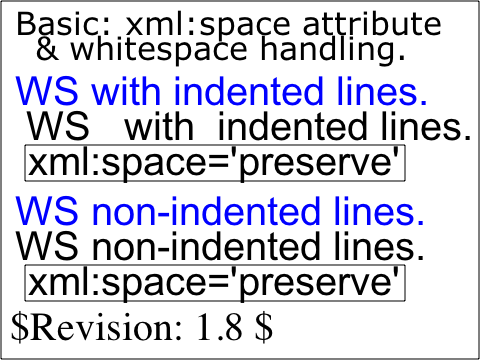
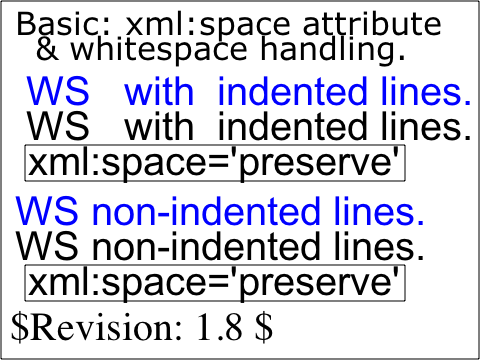
Reviewed by Sam.
Add support for xml:space="preserve" for SVG text.
It can be modeled by using white-space="pre" and replace \n by spaces.

Handle xml:space="default" correctly.
Always remove tabs from SVG text - as demanded by spec.

Added test: svg/custom/text-whitespace-handling.svg

git-svn-id: https://svn.webkit.org/repository/webkit/trunk@19390 268f45cc-cd09-0410-ab3c-d52691b4dbfc

Changed region(s): [[0.0312, 0.2139, 1.0, 0.3056]]

diff --git a/WebCore/css/svg.css b/WebCore/css/svg.css
@@ -51,5 +51,5 @@ text, foreignObject {
 }
 
 text, tspan {
-   white-space: nowrap !important
+   white-space: nowrap
 }

diff --git a/WebCore/rendering/bidi.cpp b/WebCore/rendering/bidi.cpp
@@ -1912,6 +1912,16 @@ static inline bool shouldCollapseWhiteSpace(const RenderStyle* style)
     return style->collapseWhiteSpace() || (style->whiteSpace() == PRE_WRAP && (!isLineEmpty || !previousLineBrokeCleanly));
 }
 
+static inline bool shouldPreserveNewline(RenderObject* object)
+{
+#ifdef SVG_SUPPORT
+    if (object->isSVGText())
+        return false;
+#endif
+
+    return object->style()->preserveNewline();
+}
+
 int RenderBlock::skipWhitespace(BidiIterator &it, BidiState &bidi)
 {
     // FIXME: The entire concept of the skipWhitespace function is flawed, since we really need to be building
@@ -1920,7 +1930,7 @@ int RenderBlock::skipWhitespace(BidiIterator &it, BidiState &bidi)
     // object iteration process.
     int w = lineWidth(m_height);
     while (!it.atEnd() && (it.obj->isInlineFlow() || (shouldCollapseWhiteSpace(it.obj->style()) && !it.obj->isBR() &&
-          (it.current() == ' ' || it.current() == '\t' || (!it.obj->style()->preserveNewline() && it.current() == '\n') ||
+          (it.current() == ' ' || it.current() == '\t' || (!shouldPreserveNewline(it.obj) && it.current() == '\n') ||
           it.current() == softHyphen || skipNonBreakingSpace(it) || it.obj->isFloatingOrPositioned())))) {
         if (it.obj->isFloatingOrPositioned()) {
             RenderObject *o = it.obj;
@@ -2008,7 +2018,13 @@ BidiIterator RenderBlock::findNextLineBreak(BidiIterator &start, BidiState &bidi
         
         bool autoWrap = RenderStyle::autoWrap(currWS);
         autoWrapWasEverTrueOnLine = autoWrapWasEverTrueOnLine || autoWrap;
+
+#ifdef SVG_SUPPORT
+        bool preserveNewline = o->isSVGText() ? false : RenderStyle::preserveNewline(currWS);
+#else
         bool preserveNewline = RenderStyle::preserveNewline(currWS);
+#endif
+
         bool collapseWhiteSpace = RenderStyle::collapseWhiteSpace(currWS);
             
         if (o->isBR()) {
@@ -2276,7 +2292,7 @@ BidiIterator RenderBlock::findNextLineBreak(BidiIterator &start, BidiState &bidi
                             }
                         }
                         if (lineWasTooWide || w + tmpW > width) {
-                            if (lBreak.obj && lBreak.obj->style()->preserveNewline() && lBreak.obj->isText() && static_cast<RenderText*>(lBreak.obj)->characters()[lBreak.pos] == '\n') {
+                            if (lBreak.obj && shouldPreserveNewline(lBreak.obj) && lBreak.obj->isText() && static_cast<RenderText*>(lBreak.obj)->characters()[lBreak.pos] == '\n') {
                                 if (!stoppedIgnoringSpaces && pos > 0) {
                                     // We need to stop right before the newline and then start up again.
                                     BidiIterator midpoint(0, o, pos);
@@ -2393,7 +2409,7 @@ BidiIterator RenderBlock::findNextLineBreak(BidiIterator &start, BidiState &bidi
                     RenderText* nextText = static_cast<RenderText*>(next);
                     if (nextText->textLength() != 0) {
                         UChar c = nextText->characters()[0];
-                        if (c == ' ' || c == '\t' || (c == '\n' && !next->style()->preserveNewline()))
+                        if (c == ' ' || c == '\t' || (c == '\n' && !shouldPreserveNewline(next)))
                             // If the next item on the line is text, and if we did not end with
                             // a space, then the next text run continues our word (and so it needs to
                             // keep adding to |tmpW|.  Just update and continue.
@@ -2470,7 +2486,7 @@ BidiIterator RenderBlock::findNextLineBreak(BidiIterator &start, BidiState &bidi
 
     if (lBreak == start && !lBreak.obj->isBR()) {
         // we just add as much as possible
-        if (style()->preserveNewline()) {
+        if (shouldPreserveNewline(this)) {
             // FIXME: Don't really understand this case.
             if (pos != 0) {
                 lBreak.obj = o;

diff --git a/WebCore/rendering/RenderText.cpp b/WebCore/rendering/RenderText.cpp
@@ -85,9 +85,14 @@ void RenderText::setStyle(RenderStyle* newStyle)
 
     RenderObject::setStyle(newStyle);
 
-    if (oldTransform != newStyle->textTransform() || oldSecurity != newStyle->textSecurity())
+    if (oldTransform != newStyle->textTransform() || oldSecurity != newStyle->textSecurity()
+#ifdef SVG_SUPPORT
+        || isSVGText() /* All SVG text has to be transformed */
+#endif
+       ) {
         if (RefPtr<StringImpl> textToTransform = originalText())
             setText(textToTransform.release(), true);
+    }
 
     if (fontChanged)
         updateMonospaceCharacterWidth();
@@ -825,6 +830,37 @@ void RenderText::setTextInternal(PassRefPtr<StringImpl> text)
 
     if (m_text) {
         m_text = m_text->replace('\\', backslashAsCurrencySymbol());
+
+#ifdef SVG_SUPPORT
+        if (isSVGText()) {
+            if (style() && style()->whiteSpace() == PRE) {
+                // Spec: When xml:space="preserve", the SVG user agent will do the following using a
+                // copy of the original character data content. It will convert all newline and tab
+                // characters into space characters. Then, it will draw all space characters, including
+                // leading, trailing and multiple contiguous space characters.
+
+                m_text = m_text->replace('\n', ' ');
+
+                // If xml:space="preserve" is set, white-space is set to "pre", which
+                // preserves leading, trailing & contiguous space character for us.
+           } else {
+                // Spec: When xml:space="default", the SVG user agent will do the following using a
+                // copy of the original character data content. First, it will remove all newline
+                // characters. Then it will convert all tab characters into space characters.
+                // Then, it will strip off all leading and trailing space characters.
+                // Then, all contiguous space characters will be consolidated.    
+
+                static StringImpl empty("", 0);
+                m_text = m_text->replace('\n', &empty);
+    
+                // If xml:space="default" is set, white-space is set to "nowrap", which handles
+                // leading, trailing & contiguous space character removal for us.
+            }
+
+            m_text = m_text->replace('\t', ' ');
+        }
+#endif
+
         if (style()) {
             switch (style()->textTransform()) {
                 case TTNONE:

diff --git a/WebCore/ksvg2/svg/SVGTextContentElement.cpp b/WebCore/ksvg2/svg/SVGTextContentElement.cpp
@@ -1,5 +1,5 @@
 /*
-    Copyright (C) 2004, 2005 Nikolas Zimmermann <wildfox@kde.org>
+    Copyright (C) 2004, 2005, 2007 Nikolas Zimmermann <zimmermann@kde.org>
                   2004, 2005, 2006 Rob Buis <buis@kde.org>
 
     This file is part of the KDE project
@@ -21,13 +21,17 @@
 */
 
 #include "config.h"
+
 #ifdef SVG_SUPPORT
 #include "SVGTextContentElement.h"
 
+#include "CSSPropertyNames.h"
+#include "CSSValueKeywords.h"
 #include "FloatPoint.h"
 #include "FloatRect.h"
 #include "SVGLength.h"
 #include "SVGNames.h"
+#include "XMLNames.h"
 
 namespace WebCore {
 
@@ -105,8 +109,17 @@ void SVGTextContentElement::parseMappedAttribute(MappedAttribute* attr)
     } else {
         if (SVGTests::parseMappedAttribute(attr))
             return;
-        if (SVGLangSpace::parseMappedAttribute(attr))
+        if (SVGLangSpace::parseMappedAttribute(attr)) {
+            if (attr->name().matches(XMLNames::spaceAttr)) {
+                static const AtomicString preserveString("preserve");
+
+                if (attr->value() == preserveString)
+                    addCSSProperty(attr, CSS_PROP_WHITE_SPACE, CSS_VAL_PRE);
+                else
+                    addCSSProperty(attr, CSS_PROP_WHITE_SPACE, CSS_VAL_NOWRAP);
+            }
             return;
+        }
         if (SVGExternalResourcesRequired::parseMappedAttribute(attr))
             return;
 
@@ -116,6 +129,6 @@ void SVGTextContentElement::parseMappedAttribute(MappedAttribute* attr)
 
 }
 
-// vim:ts=4:noet
 #endif // SVG_SUPPORT
 
+// vim:ts=4:noet
